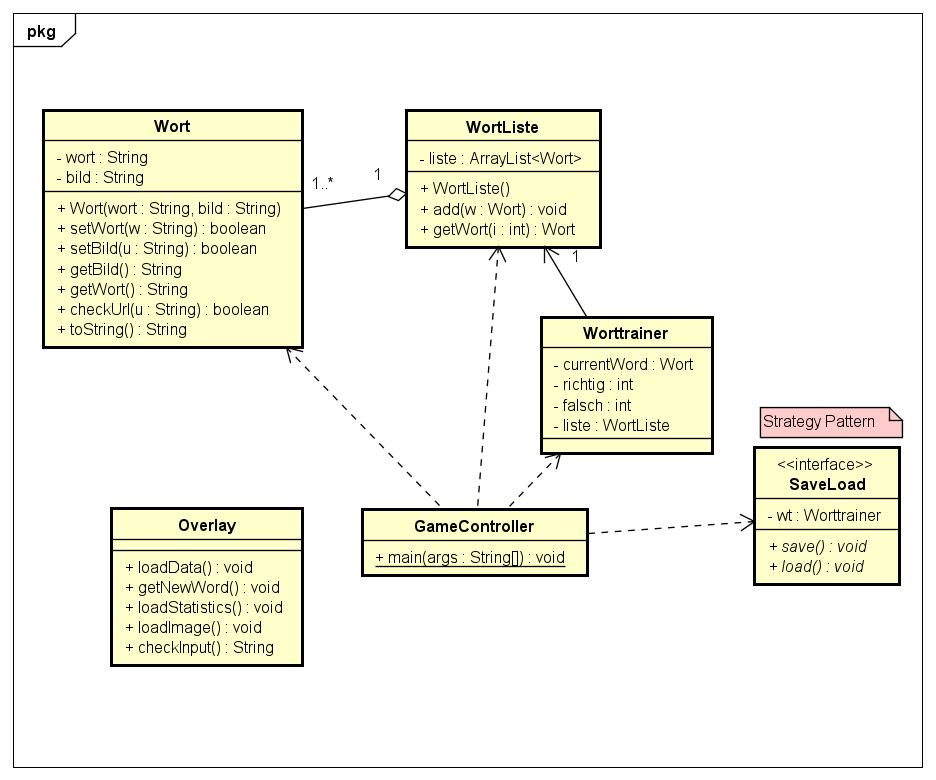
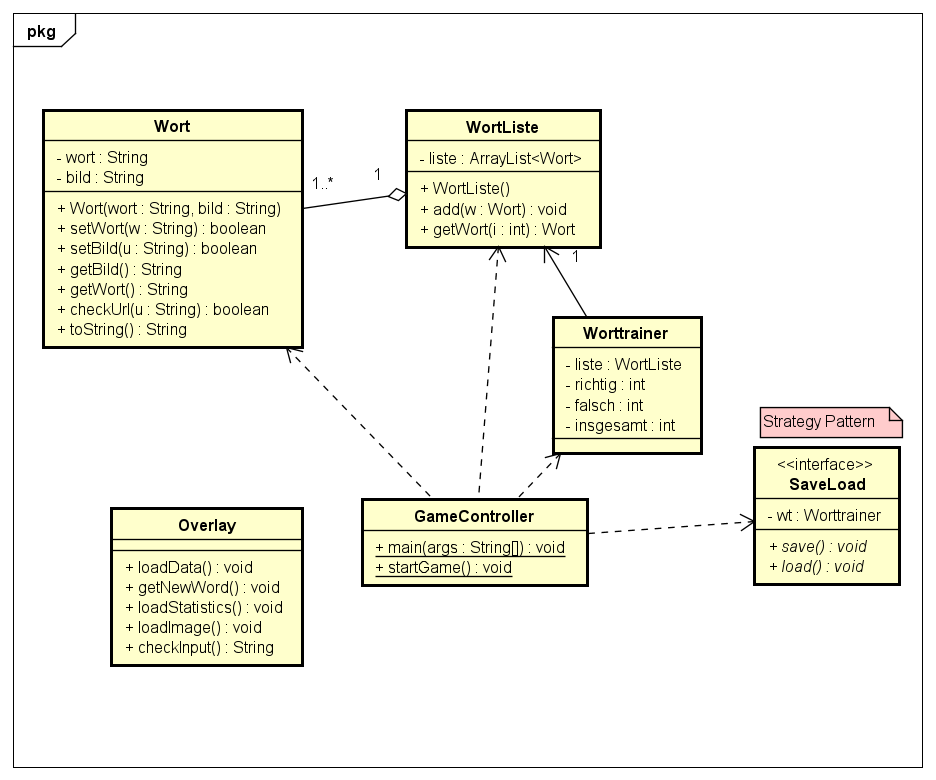
Test code in main Klasse hinzugefügt Worttrainer Klasse inklusive Konstruktoren erstellt

Changed region(s): [[0.3718, 0.6154, 0.6506, 0.7692], [0.5577, 0.4, 0.7746, 0.5846]]

diff --git a/src/main/java/at/bprinc/Worttrainer.java b/src/main/java/at/bprinc/Worttrainer.java
@@ -1,0 +1,32 @@
+package at.bprinc;
+
+public class Worttrainer {
+    private WortListe wl;
+    private int richtig = 0;
+    private int falsch = 0;
+    private int insgesamt = 0;
+
+    /**
+     * Konstruktor um ein neues Worttrainer Spiel zu erstellen
+     * @param wl    Wortliste welche die Wörter und Bilder beinhält
+     */
+    public Worttrainer(WortListe wl) {
+        this.wl = wl;
+    }
+
+    /**
+     * Konstruktor wenn ein ehemaliges Spiel geladen wird
+     * @param wl        Wortliste
+     * @param richtig   Wieviele Fragen richtig beantwortet wurden
+     * @param falsch    Wieviele Fragen falsch beantwortet wurden
+     * @param insgesamt Wieviele Fragen insgesamt beantwortet wurden
+     */
+    public Worttrainer(WortListe wl, int richtig, int falsch, int insgesamt) {
+        this.wl = wl;
+        this.richtig = richtig;
+        this.falsch = falsch;
+        this.insgesamt = insgesamt;
+    }
+
+
+}

diff --git a/src/main/java/at/bprinc/GameController.java b/src/main/java/at/bprinc/GameController.java
@@ -3,5 +3,15 @@ package at.bprinc;
 public class GameController {
     public static void main(String[] args) {
         System.out.println("Hello world!");
+        Wort w1 = new Wort("Hund", "https://cdn.pixabay.com/photo/2018/09/21/23/28/dog-3694266_640.jpg");
+        Wort w2 = new Wort("Katze", "https://as1.ftcdn.net/v2/jpg/00/80/25/64/1000_F_80256448_QhTgF4W0v1Ke1rZjSPB15iB6dU62OZHf.jpg");
+
+        WortListe wl = new WortListe(w1);
+        wl.addWort(w2);
+        startGame();
+    }
+
+    private static void startGame() {
+
     }
 }

diff --git a/README.md b/README.md
@@ -1,9 +1,12 @@
 # WorttrainerReloaded
 **Autor**: Benjamin Princ
 
-**Datum**: 18.09.2024
+**Datum**: 02.10.2024
 
 ## Einleitung
 Ziel ist es den Worttrainer mit dem jetzigen Wissen neu umzusetzen und mit JOptionPane
 eine grafische Oberfläche zu realisieren.
+
+## Umsetzung
+[UMl Diagramm](UML/WorttrainerUML.png)
 
